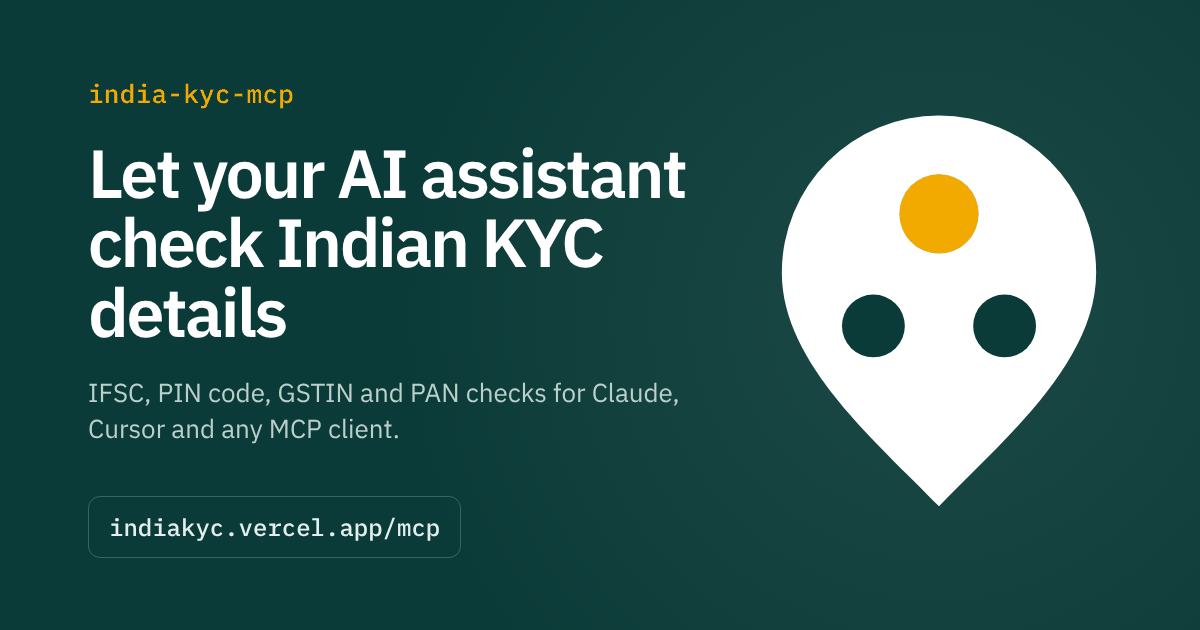
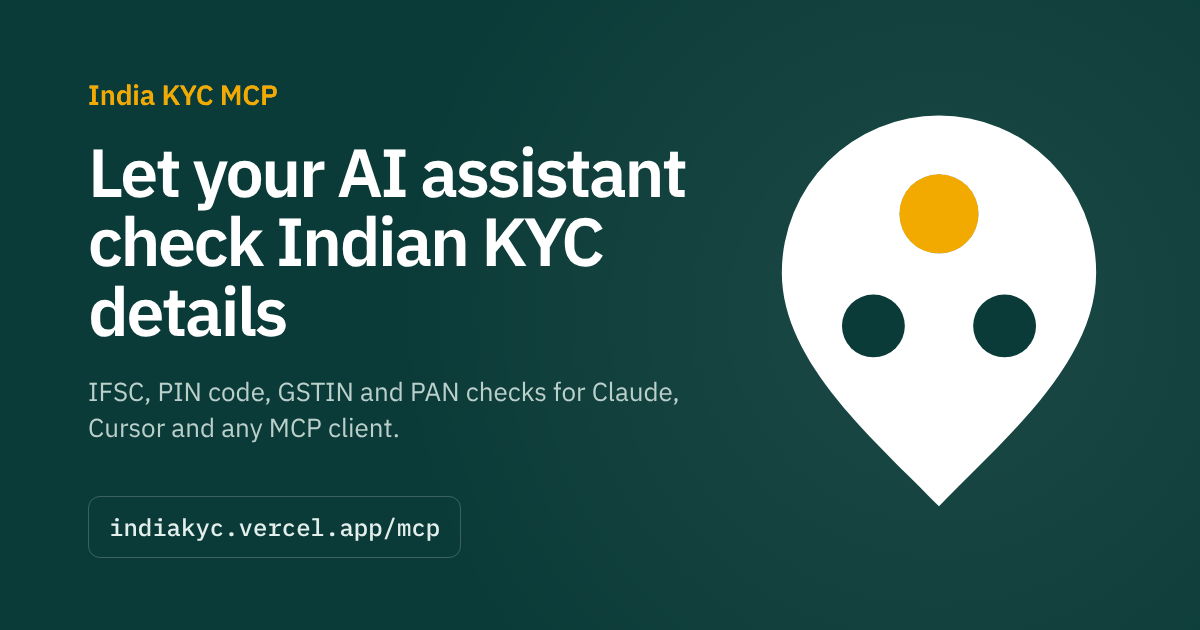
Write the name as India KYC MCP in the header, README and share image

diff --git a/src/india_kyc_mcp/site/index.html b/src/india_kyc_mcp/site/index.html
@@ -181,14 +181,14 @@ footer .wrap{display:flex;flex-wrap:wrap;gap:8px 24px;justify-content:space-betw
 <body>
 <header class="nav" id="top">
   <div class="wrap">
-    <a class="brand" href="/" aria-label="india-kyc-mcp, home">
+    <a class="brand" href="/" aria-label="India KYC MCP, home">
       <svg viewBox="4 1 24 30" aria-hidden="true">
         <path d="M16 30C11.6 25.4 4.5 19.6 4.5 12.9A11.5 11.5 0 0 1 27.5 12.9C27.5 19.6 20.4 25.4 16 30Z" fill="var(--mark)"/>
         <circle class="earth" cx="16" cy="8.6" r="2.9" fill="var(--marigold)"/>
         <circle cx="11.2" cy="16.8" r="2.3" fill="var(--bg)"/>
         <circle cx="20.8" cy="16.8" r="2.3" fill="var(--bg)"/>
       </svg>
-      india-kyc-mcp
+      India KYC MCP
     </a>
     <nav class="links" aria-label="Page">
       <a href="#connect">Connect</a>

diff --git a/src/india_kyc_mcp/__init__.py b/src/india_kyc_mcp/__init__.py
@@ -1,3 +1,3 @@
-"""india-kyc-mcp: an MCP server that lets AI assistants check Indian bank, address and tax details."""
+"""India KYC MCP: an MCP server that lets AI assistants check Indian bank, address and tax details."""
 
 __version__ = "0.1.0"

diff --git a/README.md b/README.md
@@ -1,6 +1,6 @@
-<img src="src/india_kyc_mcp/site/icon.svg" width="64" height="64" alt="india-kyc-mcp logo: a map pin with a 3-pin socket in it">
+<img src="src/india_kyc_mcp/site/icon.svg" width="64" height="64" alt="India KYC MCP logo: a map pin with a 3-pin socket in it">
 
-# india-kyc-mcp
+# India KYC MCP
 
 **An MCP server that lets AI assistants check Indian bank, address and tax details during onboarding.**
 
